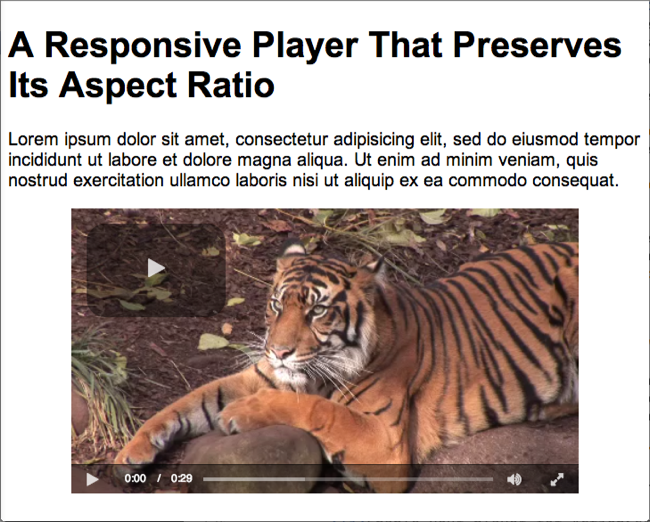
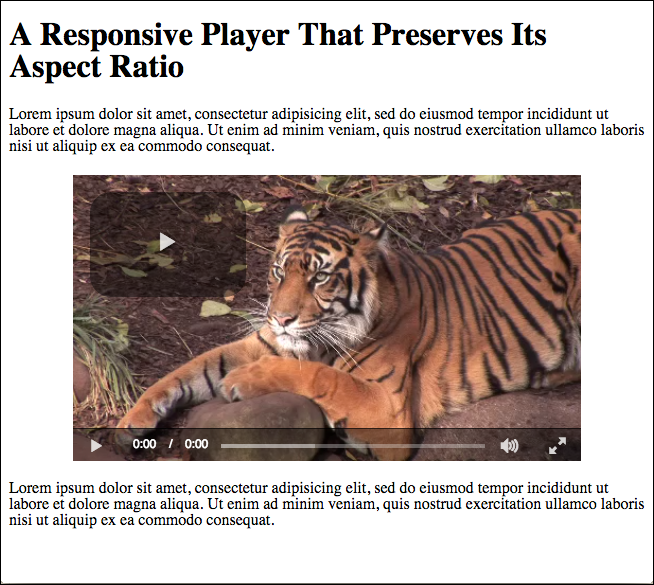
Major content update

diff --git a/en/video-cloud/brightcove-player/samples/responsive-sizing.html b/en/video-cloud/brightcove-player/samples/responsive-sizing.html
@@ -55,24 +55,30 @@
         <p class="BCL-aside">Note: This solution is borrowed from a blog post by Thierry Koblentz. For more details about browser compatibility, refer to his <a href="http://alistapart.com/article/creating-intrinsic-ratios-for-video"> blog post</a>.</p>
         <p>The aspect ratio is determined by a simple calculation to determine a percentage. For instance, the percentage for a video with a 16:9 aspect ratio, divide 9 by 16 (i.e. 9/16 = .5625) to get 56.25%. For a 16:9 video, you want the height to be 9/16ths of the width.</p>
       </div>
-      <div id="ControlSize" class="section">
-        <h2>Control player size</h2>
-        <p>Notice that in the previous solution, the video player width extends to the full width and height of the browser. You can control the size of your player by adding another bounding container around the video player.</p>
-        <h3>Adding  a bounding container</h3>
-        <p>In your HTML document, add HTML and CSS code to do the following:</p>
+      <div id="inpageembed" class="section">
+        <h2>In-Page Embed example</h2>
+        <p>If all you do is use the intrinsic ratio in the CSS, the video player will have the correct aspect ratio, but extend to nearly the full width and height of the browser. You can control the size of your player by adding bounding containers around the video player. The bounding containers provide this functionality:</p> 
         <ul>
-          <li>You can either add a second <code>&lt;div&gt;</code> container around the video player, or use the <code>:after</code> CSS selector to add a pseudo-element after our <code>&lt;div&gt;</code> container. We use the pseudo-element in this example because it saves us from having to manage another <code>&lt;div&gt;</code> element in our page code.</li>
-		  <li>Change the name of the current <code>.outer</code> CSS selector to <code>.outer:after</code>. Add the <code>content</code> property to embed the content from the parent element.</li>
-		  <li>Add an <code>.outer</code> CSS selector before the <code>.outer:after</code> selector and style the  <code>width </code>property to a percentage to control its size.</li>
+            <li>The outer container determines what percentage of the browser to use.</li>
+            <li>The inner container uses the intrinsic ratio to set the height which maintains the correct aspect ratio.</li>
         </ul>
-		<p>Here is the sample for the <code>embed_in_page</code> code to control the size of your video while keeping it responsive.</p>
-        <p><code data-gist-id="c58808239a337fb9236d" data-gist-hide-footer="true" data-gist-line="87-136"></code>
-	    <p>Here is the sample for the iframe <code>embed_code</code> to control the size of your video while keeping it responsive.</p>
-        <p><code data-gist-id="c58808239a337fb9236d" data-gist-hide-footer="true" data-gist-line="144-183"></code>
-          
+        <h3>Adding bounding containers</h3>
+        <p>The following shows using the In-Page Embed implementation in a responsive page. Notice that the video tag is surrounded by a <code>&lt;div&gt;</code> element with a <code>class</code> name of <code>outer</code>.</p>
+        <ul>
+          <li>Lines 8-13: Styles that set the outer container to 80% of the browser's width.</li>
+          <li>Lines 14-18: You can either add a second <code>&lt;div&gt;</code> container around the video player, <strong>OR</strong> use the <code>:after</code> CSS selector to add a pseudo-element after the <code>outer</code> <code>&lt;div&gt;</code> container. The pseudo-element saves having to manage another <code>&lt;div&gt;</code> element in our page code. The pseudo-element uses the intrinsic ratio for a 16:9 aspect ratio.</li>
+          <li>Lines 19-27: Styles that make sure the player completely fills the second container.</li>
+        <p><code data-gist-id="c58808239a337fb9236d" data-gist-hide-footer="true" data-gist-line="1-45"></code>
 		  <h3>Running the sample code</h3>
           <p>Run the sample code in the browser. Resize the browser to see how the video player resizes. Notice how the video player maintains its position in the middle of the page.</p>
           <p><img src="/en/video-cloud/brightcove-player/assets/responsive_img3.png" alt="Responsive controlled-size" /></p>
+          <p>You can view the page <a href="//solutions.brightcove.com/bcls/brightcove-player/responsive/responsive-embed-in-page.html">here.</a> </p>
+      </div>
+      <div id="iframe" class="section">
+        <h2>iframe example</h2>
+        <p>The approach to responsive sizing using the iframe player implementation is analogous to the Embed-in Page implementation. The code below is logically identical to the example above, except that the iframe is used for the player.</p>
+        <p><code data-gist-id="c58808239a337fb9236d" data-gist-hide-footer="true" data-gist-line="50-89"></code>
+          <p>You can view the page <a href="//solutions.brightcove.com/bcls/brightcove-player/responsive/responsive-iframe.html">here.</a> </p>
       </div>
 		
       <div class="section" id="BCLreferences">
